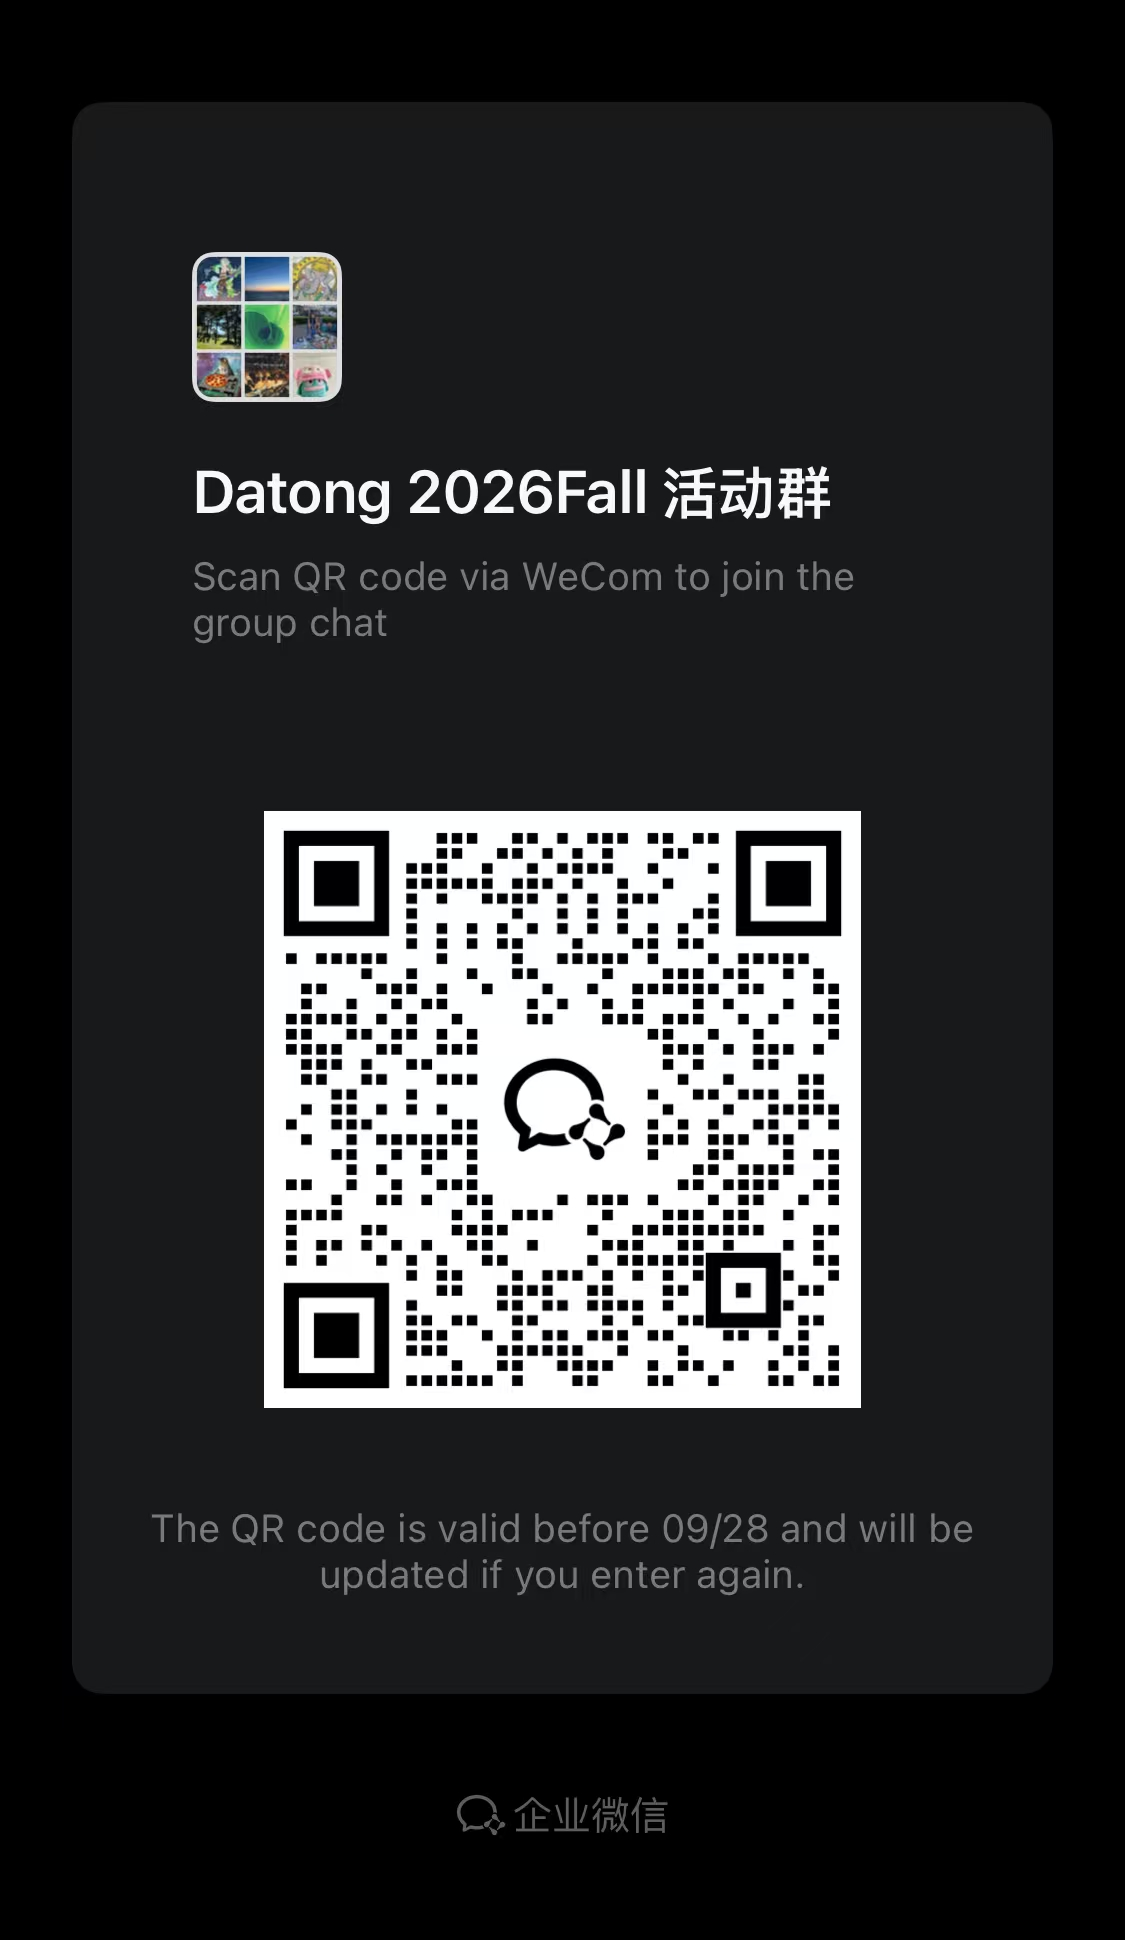
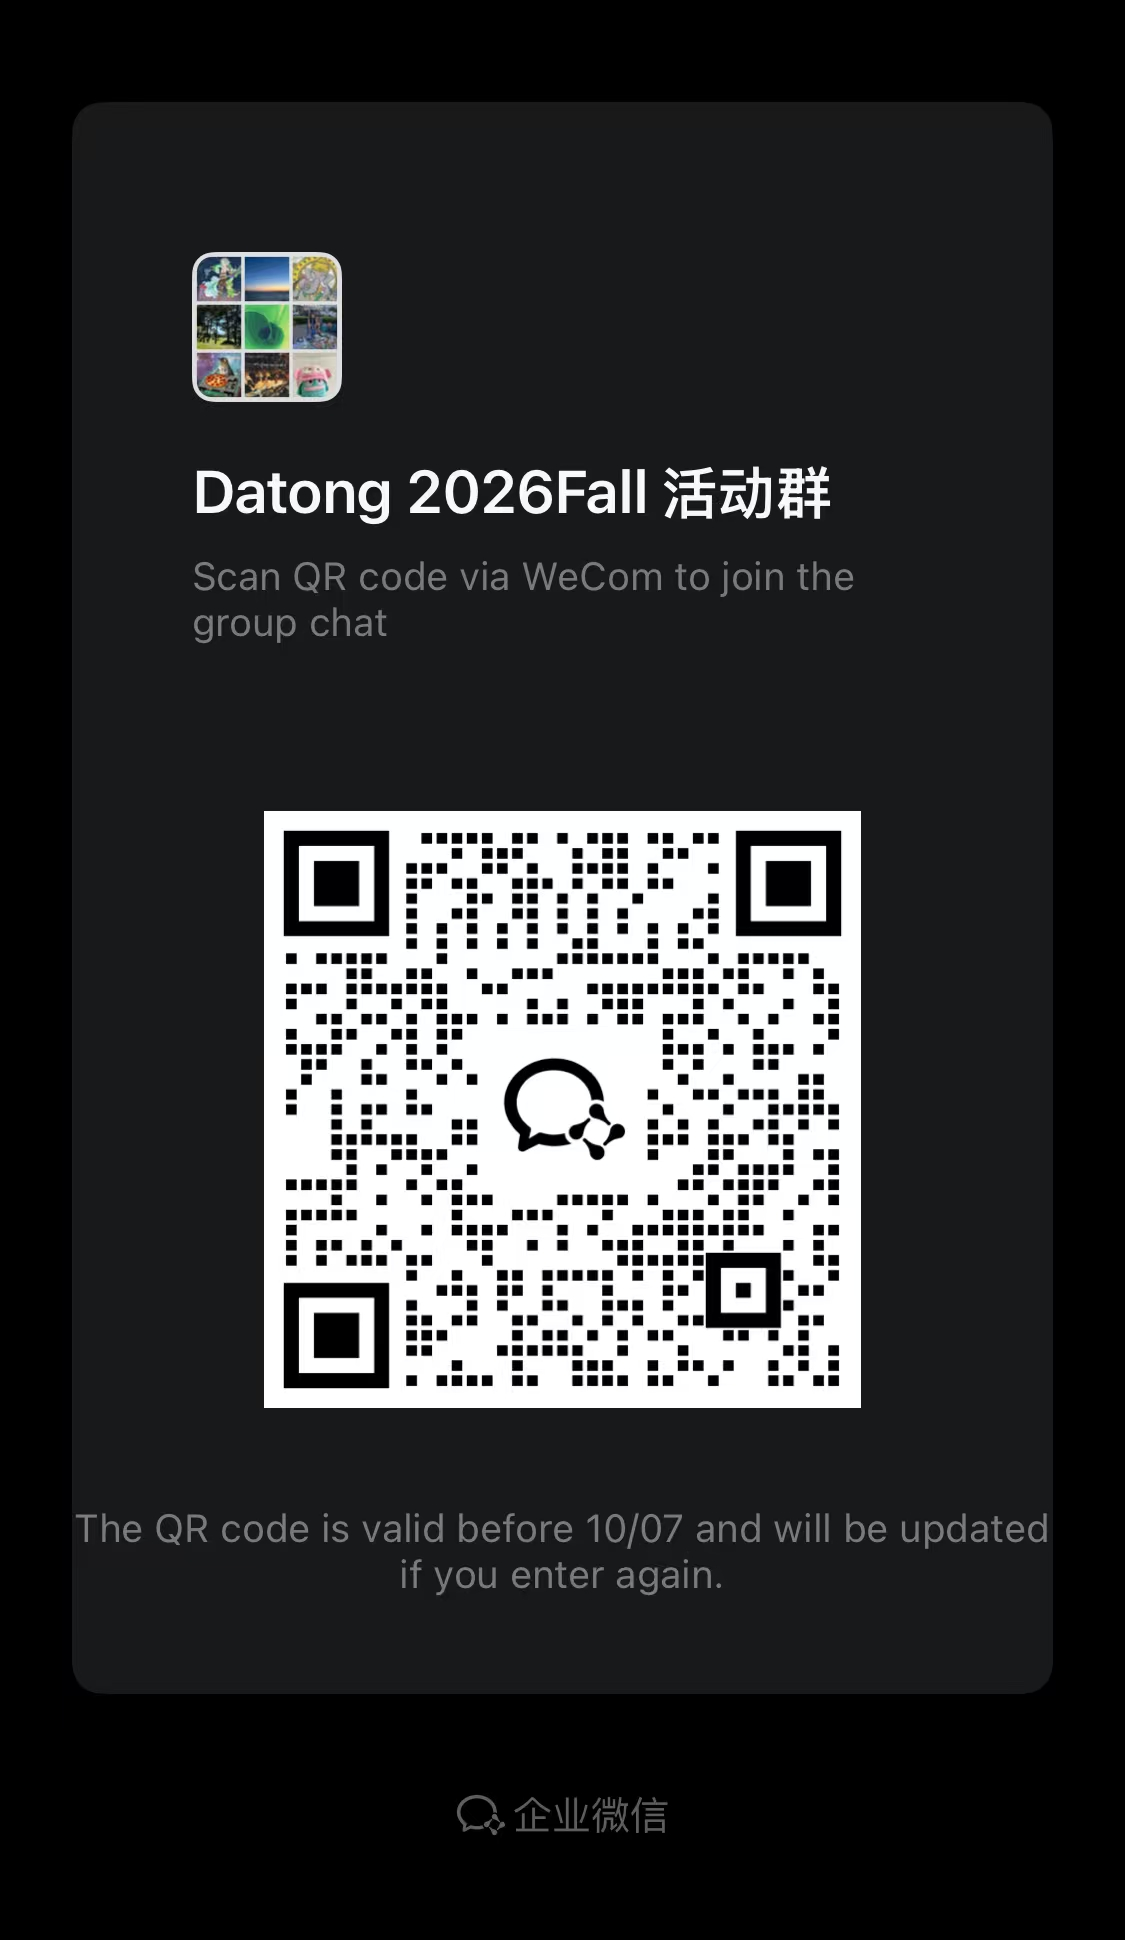
Update activity group QR for September 30

diff --git a/index.html b/index.html
@@ -453,12 +453,12 @@
 								<section class="qr-section">
 									<h3>活动群<span style="font-size:0.7rem;opacity:0.55;letter-spacing:0.1rem;margin-left:0.5rem;">DATONG · FALL 2026</span></h3>
 									<p class="qr-lead">
-										Scan with WeCom to join the <strong>Datong 2026Fall Activity Group</strong> for event announcements and discussions. This QR code is valid through September 27; please return for an updated code from September 28.<br><br>
-										使用企业微信扫码加入 <strong>Datong 2026Fall 活动群</strong>，获取活动通知并参与交流。此二维码在 9 月 28 日前有效；之后请返回本页查看更新的二维码。
+										Scan with WeCom to join the <strong>Datong 2026Fall Activity Group</strong> for event announcements and discussions. This QR code is valid before October 7; please return for an updated code from October 7.<br><br>
+										使用企业微信扫码加入 <strong>Datong 2026Fall 活动群</strong>，获取活动通知并参与交流。此二维码在 10 月 7 日前有效；之后请返回本页查看更新的二维码。
 									</p>
 									<div class="qr-grid">
-										<a href="images/qr/qr-activity-group.jpg" target="_blank" rel="noopener" class="qr-card">
-											<div class="qr-img"><img loading="lazy" decoding="async" src="images/qr/qr-activity-group.jpg" alt="Datong 2026Fall 活动群企业微信二维码" /></div>
+										<a href="images/qr/qr-activity-group.jpg?v=20260930" target="_blank" rel="noopener" class="qr-card">
+											<div class="qr-img"><img loading="lazy" decoding="async" src="images/qr/qr-activity-group.jpg?v=20260930" alt="Datong 2026Fall 活动群企业微信二维码" /></div>
 											<div class="qr-name">Datong 2026Fall 活动群</div>
 											<div class="qr-en">WeCom · Activity Group</div>
 										</a>

diff --git a/images/README.md b/images/README.md
@@ -36,6 +36,7 @@ images/
 │   └── banner-about-us-grad-2025sp.jpg
 ├── qr/                  scannable codes
 │   ├── qr-wechat-official.jpg
+│   ├── qr-activity-group.jpg
 │   ├── qr-recruit-qa.jpg
 │   └── qr-recruit-form.png
 └── events/              Past Events gallery, one folder per event
@@ -64,6 +65,7 @@ images/
 | `sections/banner-activities.jpg` | 9 KB | 960x320 (JPEG) | Wide banner at the top of the "Activities" section<br><span style="opacity:.6">「Activities」版块顶部横幅图</span> |
 | `sections/banner-about-us-grad-2025sp.jpg` | 627 KB | 1920x1080 (JPEG) | Group photo of the Spring 2025 graduating cohort (Hearst Memorial Mining Building); the "About Us" banner. Displayed full-frame via the `.bleed` class — never cropped<br><span style="opacity:.6">2025 春季毕业班合影（Hearst Memorial Mining Building），用作「About Us」横幅；通过 `.bleed` 类完整显示，不做裁切</span> |
 | `qr/qr-wechat-official.jpg` | 30 KB | 275x276 (JPEG) | QR code — Datong Society WeChat official account<br><span style="opacity:.6">大同学社微信公众号二维码</span> |
+| `qr/qr-activity-group.jpg` | 322 KB | 1125x1940 (JPEG) | Datong 2026Fall activity WeCom group; updated 2026-09-30, valid before October 7. Source archived as `Organization/Assets/QR Codes/qr-activity-group-2026-09-30.jpg` in the parent workspace. The homepage image and full-size link use `?v=20260930` to refresh cached copies.<br><span style="opacity:.6">2026 秋季活动群企业微信二维码；保留原图及白边，更新时同步有效期与缓存版本。</span> |
 | `qr/qr-recruit-qa.jpg` | 192 KB | 1080x1632 (JPEG) | QR code — Fall 2026 recruitment Q&A WeChat group<br><span style="opacity:.6">2026 秋季招新答疑微信群二维码</span> |
 | `qr/qr-recruit-form.png` | 7 KB | 275x276 (PNG) | QR code — Fall 2026 recruitment sign-up form<br><span style="opacity:.6">2026 秋季招新报名表二维码</span> |
 
